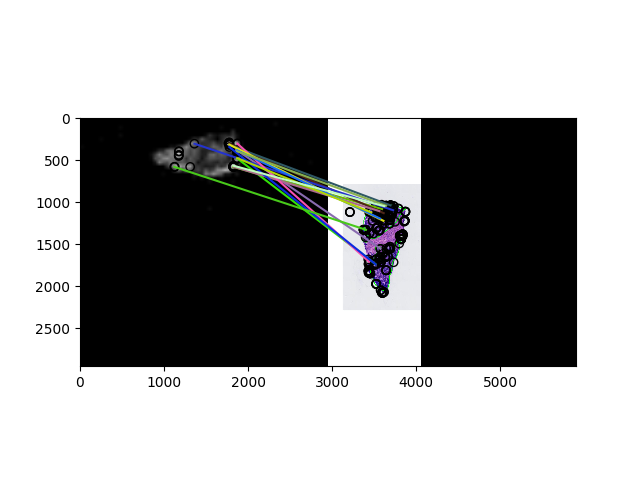
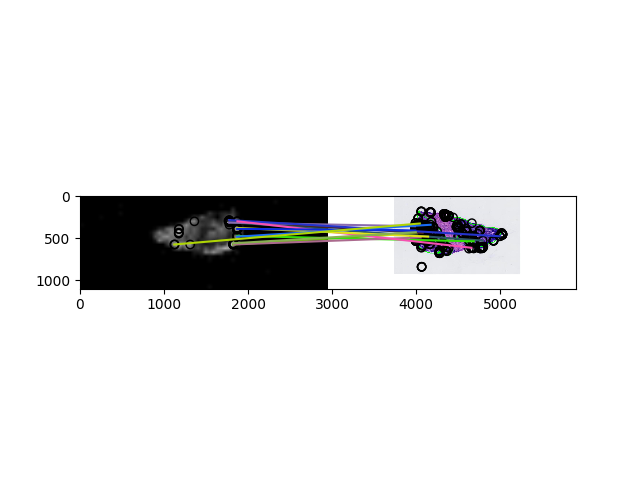
rotate pathology image by 90 degree

Changed region(s): [[0.0625, 0.2188, 0.9062, 0.8125], [0.0625, 0.4688, 0.125, 0.5312], [0.0625, 0.4062, 0.125, 0.4375]]

diff --git a/main.py b/main.py
@@ -8,8 +8,7 @@ from skimage.measure import ransac
 from skimage.feature import match_descriptors, ORB, plot_matches
 import matplotlib.pyplot as plt
 
-MAX_FEATURES = 300
-GOOD_MATCH_PERCENT = 1
+MAX_FEATURES = 400
 
 np.random.seed(seed=1)
 
@@ -64,12 +63,13 @@ if __name__ == '__main__':
     for i, (file1, file2, file3) in enumerate(file_pairs):  # file1 is the reference from pathology slice
         try:
             img = imread(file1)
+            img = np.rot90(img)
             with open(file2, newline='') as csvfile:
                 reader = csv.reader(csvfile)
                 width = 0
                 data = np.array(list(reader), dtype=np.float)
 
-            data = resize(data, img.shape[1::-1])
+            data = resize(data, img.shape[0:2], anti_aliasing=True)
             data = (data - np.amin(data)) / (np.amax(data) - np.amin(data))
             data = gray2rgb(data)
             data = img_as_ubyte(data)
